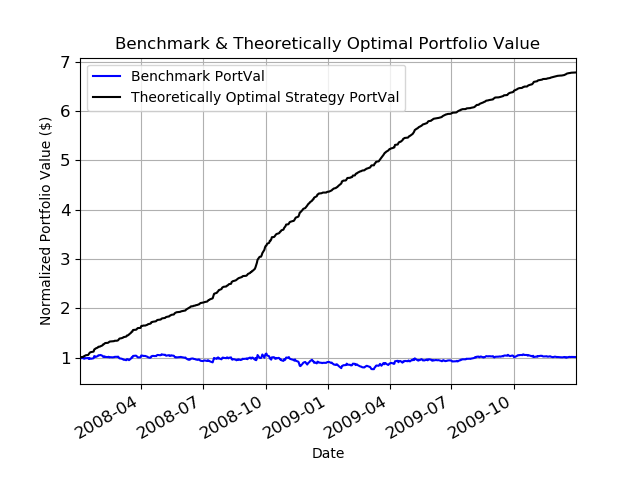
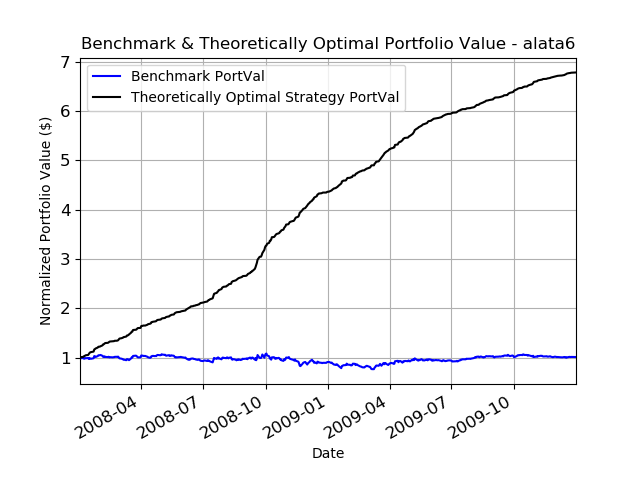
figs updated

Changed region(s): [[0.125, 0.0625, 0.9062, 0.125]]

diff --git a/p6_manual_strategy/TheoreticallyOptimalStrategy.py b/p6_manual_strategy/TheoreticallyOptimalStrategy.py
@@ -109,7 +109,7 @@ class TheoreticallyOptimalStrategy(object):
 
         portval_df = pd.concat([benchmark_portval, tos_portval], axis=1)
 
-        portval_graph = portval_df.plot(title="Benchmark & Theoretically Optimal Portfolio Value", fontsize=12, grid=True, color=['blue', 'black'])
+        portval_graph = portval_df.plot(title="Benchmark & Theoretically Optimal Portfolio Value - alata6", fontsize=12, grid=True, color=['blue', 'black'])
         portval_graph.set_xlabel('Date')
         portval_graph.set_ylabel('Normalized Portfolio Value ($)')
 
